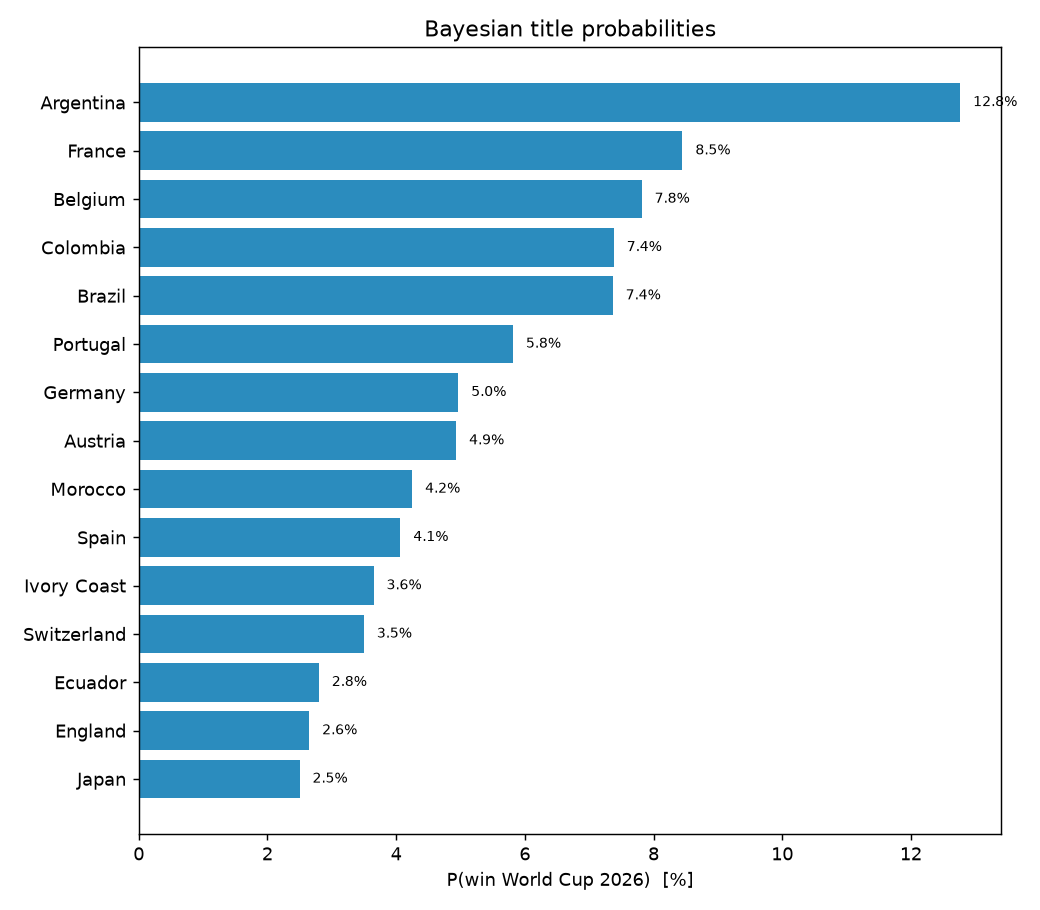
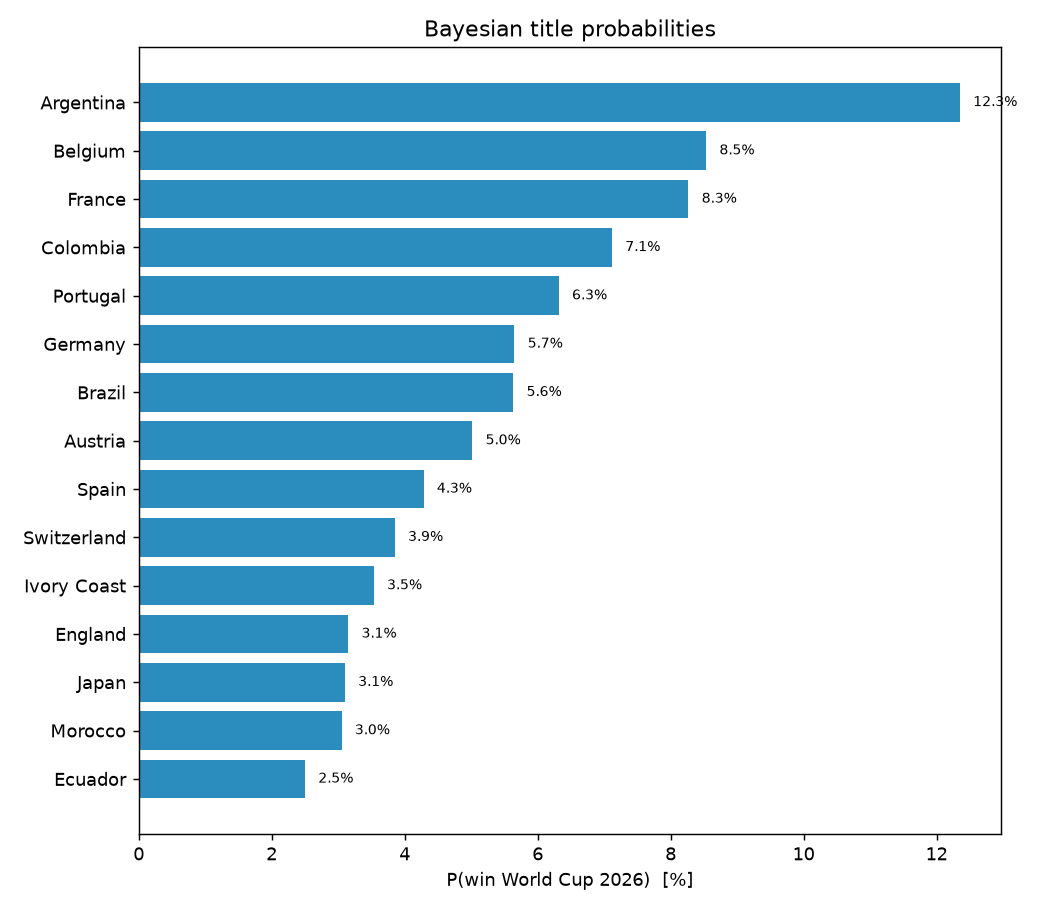
Add R32 opponent-odds script + link from Champion Tracker
- scripts/23_r32_odds.py (make r32-odds): goal forecast + win/draw/loss + Elo
  cross-check + squad style/form vs each candidate knockout opponent, at the
  Azteca (home edge); writes docs/R32_ODDS.md, sorted hardest-first
- Mexico R32 view: Ecuador toughest (34% win, 0-0 likely) despite being least
  likely; Scotland/Cape Verde ~48-50%
- Champion Tracker links to R32_ODDS.md

diff --git a/scripts/23_r32_odds.py b/scripts/23_r32_odds.py
@@ -1,0 +1,122 @@
+"""Stage 23: knockout-opponent odds for one team.
+
+For a set of candidate opponents, computes the goal forecast + win/draw/loss and
+an Elo cross-check, with each side's squad style and current form — Mexico's
+Round-of-32 view by default (at the Estadio Azteca). Writes docs/R32_ODDS.md and
+prints the table; refresh as the draw firms up.
+
+    python scripts/23_r32_odds.py
+    python scripts/23_r32_odds.py --team Mexico --opponents Scotland Ecuador "Cape Verde"
+    python scripts/23_r32_odds.py --neutral --stage "Round of 16"
+"""
+
+import argparse
+
+import arviz as az
+import pandas as pd
+
+from wc2026.config import ARTIFACTS, PROCESSED, ROOT, ensure_dirs
+from wc2026.data.scouting import MEXICO_SOCIAL
+from wc2026.data.sources import build_real_matches, wc2026_matches
+from wc2026.data.teams import HOSTS, TEAMS
+from wc2026.models.bayesian_score import FitResult, predict_match
+from wc2026.models.elo import win_probability
+from wc2026.models.momentum import combined_shifts
+
+TODAY = "2026-06-19"
+
+
+def _form(wc, team):
+    g = wc[(wc.home == team) | (wc.away == team)]
+    return "; ".join(f"{r.home} {int(r.home_score)}-{int(r.away_score)} {r.away}"
+                     for r in g.itertuples()) or "—"
+
+
+def main() -> None:
+    ap = argparse.ArgumentParser()
+    ap.add_argument("--team", default="Mexico")
+    ap.add_argument("--opponents", nargs="+",
+                    default=["Scotland", "Ecuador", "Cape Verde"])
+    ap.add_argument("--stage", default="Round of 32")
+    ap.add_argument("--venue", default="Estadio Azteca (home)")
+    ap.add_argument("--neutral", action="store_true",
+                    help="force a neutral venue (default: home if team is a host)")
+    args = ap.parse_args()
+
+    ensure_dirs()
+    teams = [t.name for t in TEAMS]
+    idata = az.from_netcdf(ARTIFACTS / "posterior_real.nc")
+    FitResult(idata=idata, teams=teams, team_to_idx={t: i for i, t in enumerate(teams)})
+    elo = pd.read_csv(PROCESSED / "elo_ratings.csv").set_index("team")
+    interp = pd.read_csv(PROCESSED / "team_interpretation.csv").set_index("team")
+    shifts = combined_shifts(build_real_matches(end=TODAY), TODAY,
+                             scouted={"Mexico": MEXICO_SOCIAL["net_mood"]})
+    wc = wc2026_matches()
+    wc = wc[wc.home_score.notna()]
+
+    neutral = args.neutral or (args.team not in HOSTS)
+    rows = []
+    for o in args.opponents:
+        if o not in teams:
+            print(f"  [skip] {o!r} not in the 48-team field")
+            continue
+        p = predict_match(idata, teams, args.team, o, neutral=neutral, shifts=shifts)
+        ew = win_probability(elo.loc[args.team, "elo"], elo.loc[o, "elo"],
+                             neutral=neutral)
+        pr = interp.loc[o] if o in interp.index else None
+        rows.append({
+            "opp": o, "xg": f"{p['exp_goals_home']:.2f}-{p['exp_goals_away']:.2f}",
+            "score": p["most_likely_score"], "win": p["p_home_win"],
+            "draw": p["p_draw"], "loss": p["p_away_win"], "over25": p["p_over_2_5"],
+            "elo_win": ew, "elo_rank": int(elo.loc[o, "rank"]),
+            "tier": pr["tier"] if pr is not None else "?",
+            "style": pr["style"] if pr is not None else "?",
+            "star": pr["star_player"] if pr is not None else "?",
+            "form": _form(wc, o),
+        })
+    rows.sort(key=lambda r: r["win"])   # hardest first
+
+    md = _render(args, rows, int(elo.loc[args.team, "rank"]))
+    out = ROOT / "docs" / "R32_ODDS.md"
+    out.write_text(md)
+
+    print(f"=== {args.team} — {args.stage} opponent odds ({args.venue}) ===\n")
+    print(f"{'opponent':<13}{'win':>6}{'draw':>6}{'loss':>6}{'xG':>11}  elo")
+    for r in rows:
+        print(f"{r['opp']:<13}{100*r['win']:>5.0f}%{100*r['draw']:>5.0f}%"
+              f"{100*r['loss']:>5.0f}%{r['xg']:>11}  {100*r['elo_win']:.0f}%")
+    print(f"\nsaved -> {out}")
+
+
+def _pct(x):
+    return f"{100*x:.0f}%"
+
+
+def _render(args, rows, team_elo_rank) -> str:
+    venue = "neutral" if (args.neutral or args.team not in HOSTS) else args.venue
+    L = [f"# {args.team} — {args.stage} Opponent Odds\n",
+         f"_Goal forecast + win/draw/loss vs each candidate opponent, at **{venue}**. "
+         "Model = Bayesian goals (with home edge + current form); Elo = recency "
+         "cross-check (win excl. draw). Sorted hardest-first. Compiled 2026-06-19._\n",
+         "| Opponent | Likely | **Win** | Draw | Loss | Over 2.5 | Elo win | Opp Elo rank |",
+         "|---|---|---|---|---|---|---|---|"]
+    for r in rows:
+        L.append(f"| {r['opp']} | {r['score']} | **{_pct(r['win'])}** | "
+                 f"{_pct(r['draw'])} | {_pct(r['loss'])} | {_pct(r['over25'])} | "
+                 f"{_pct(r['elo_win'])} | {r['elo_rank']} |")
+    if rows:
+        hardest = rows[0]
+        L.append(f"\n**Toughest draw: {hardest['opp']}** "
+                 f"({_pct(hardest['win'])} win) — lowest win probability of the set.\n")
+    L.append("## Opponent notes (style · form)\n")
+    for r in rows:
+        L.append(f"- **{r['opp']}** — {r['tier']}, {r['style']}; talisman "
+                 f"{r['star']}. Form: {r['form']}")
+    L.append("\n_Caveat: Bayesian (pooled, ~mid-table view of the favourite) and Elo "
+             "(recency, hot-form view) often disagree on the margin; they agree on "
+             "the ranking. Refresh with `make r32-odds` as the draw firms up._")
+    return "\n".join(L)
+
+
+if __name__ == "__main__":
+    main()

diff --git a/scripts/16_champion_tracker.py b/scripts/16_champion_tracker.py
@@ -140,6 +140,9 @@ def _render(st, nxt, sim, n_played) -> str:
         L.append(f"| {r.team} | {_pct(r.p_quarter)} | {_pct(r.p_semi)} | "
                  f"{_pct(r.p_final)} | **{_pct(r.p_champion)}** |")
 
+    L.append("\n_Mexico's Round-of-32 opponent odds (per candidate): "
+             "[R32_ODDS.md](R32_ODDS.md) — `make r32-odds`._\n")
+
     L.append("\n## Next games — predicted goals\n")
     L.append("| Date | Fixture | Pred goals (xG) | Likely | P(H/D/A) | Home form |")
     L.append("|---|---|---|---|---|---|")

diff --git a/docs/CHAMPION_TRACKER.md b/docs/CHAMPION_TRACKER.md
@@ -1,6 +1,6 @@
 # 🏆 World Cup 2026 — Champion Tracker
 
-_A living, state-aware forecast. Conditioned on the **32 matches played so far**: completed group games are held fixed; the rest of the tournament is simulated from a Bayesian goals model (squad-skill prior + current form + X/ESPN sentiment). Updated 2026-06-19._
+_A living, state-aware forecast. Conditioned on the **28 matches played so far**: completed group games are held fixed; the rest of the tournament is simulated from a Bayesian goals model (squad-skill prior + current form + X/ESPN sentiment). Updated 2026-06-19._
 
 ## How to read this
 
@@ -15,42 +15,45 @@ Both come from one model: goals are the primitive; the winner is a simulation ov
 
 | Team | Quarter | Semi | Final | **Champion** |
 |---|---|---|---|---|
-| Argentina | 50% | 29% | 18% | **13%** |
-| France | 44% | 23% | 13% | **8%** |
-| Belgium | 44% | 23% | 12% | **8%** |
-| Colombia | 42% | 22% | 12% | **7%** |
-| Brazil | 44% | 23% | 12% | **7%** |
-| Portugal | 36% | 19% | 10% | **6%** |
-| Germany | 40% | 21% | 10% | **5%** |
-| Austria | 37% | 20% | 10% | **5%** |
-| Morocco | 34% | 17% | 9% | **4%** |
-| Spain | 31% | 16% | 8% | **4%** |
+| Argentina | 50% | 29% | 18% | **12%** |
+| Belgium | 45% | 24% | 13% | **9%** |
+| France | 45% | 23% | 12% | **8%** |
+| Colombia | 41% | 22% | 12% | **7%** |
+| Portugal | 38% | 20% | 11% | **6%** |
+| Germany | 40% | 21% | 11% | **6%** |
+| Brazil | 39% | 20% | 10% | **6%** |
+| Austria | 37% | 18% | 10% | **5%** |
+| Spain | 33% | 18% | 9% | **4%** |
+| Switzerland | 31% | 17% | 9% | **4%** |
 | Ivory Coast | 31% | 16% | 8% | **4%** |
-| Switzerland | 32% | 17% | 8% | **4%** |
+| England | 29% | 15% | 7% | **3%** |
+
+_Mexico's Round-of-32 opponent odds (per candidate): [R32_ODDS.md](R32_ODDS.md) — `make r32-odds`._
+
 
 ## Next games — predicted goals
 
 | Date | Fixture | Pred goals (xG) | Likely | P(H/D/A) | Home form |
 |---|---|---|---|---|---|
 | 2026-06-20 | Netherlands v Sweden | 2.2-1.5 | 2-1 | 53%/20%/27% | steady |
-| 2026-06-20 | Tunisia v Japan | 0.6-1.4 | 0-1 | 16%/27%/56% | cold |
-| 2026-06-20 | Germany v Ivory Coast | 1.6-1.4 | 1-1 | 44%/24%/32% | red-hot |
-| 2026-06-20 | Ecuador v Curaçao | 2.1-0.5 | 2-0 | 74%/18%/8% | steady |
-| 2026-06-21 | Belgium v Iran | 2.3-0.7 | 2-0 | 72%/18%/10% | red-hot |
-| 2026-06-21 | New Zealand v Egypt | 0.6-1.4 | 0-1 | 17%/28%/55% | cold |
+| 2026-06-20 | Tunisia v Japan | 0.6-1.4 | 0-1 | 16%/28%/56% | cold |
+| 2026-06-20 | Germany v Ivory Coast | 1.6-1.4 | 1-1 | 44%/24%/33% | red-hot |
+| 2026-06-20 | Ecuador v Curaçao | 2.1-0.5 | 1-0 | 73%/18%/8% | steady |
+| 2026-06-21 | Belgium v Iran | 2.2-0.7 | 2-0 | 72%/18%/11% | red-hot |
+| 2026-06-21 | New Zealand v Egypt | 0.6-1.4 | 0-1 | 18%/28%/54% | cold |
 | 2026-06-21 | Spain v Saudi Arabia | 1.6-0.5 | 1-0 | 65%/24%/11% | steady |
-| 2026-06-21 | Uruguay v Cape Verde | 1.0-0.8 | 0-0 | 41%/33%/26% | steady |
-| 2026-06-22 | France v Iraq | 2.3-0.4 | 2-0 | 79%/15%/5% | rising |
-| 2026-06-22 | Norway v Senegal | 1.5-1.2 | 1-1 | 44%/25%/30% | rising |
+| 2026-06-21 | Uruguay v Cape Verde | 1.0-0.8 | 0-0 | 40%/33%/27% | steady |
+| 2026-06-22 | France v Iraq | 2.3-0.4 | 2-0 | 79%/16%/6% | rising |
+| 2026-06-22 | Norway v Senegal | 1.5-1.2 | 1-1 | 45%/25%/30% | rising |
 | 2026-06-22 | Argentina v Austria | 1.7-1.1 | 1-1 | 50%/24%/26% | red-hot |
 | 2026-06-22 | Jordan v Algeria | 0.7-1.8 | 0-1 | 14%/23%/63% | dipping |
 | 2026-06-23 | Portugal v Uzbekistan | 1.8-0.5 | 1-0 | 68%/22%/10% | rising |
 | 2026-06-23 | Colombia v Congo DR | 1.6-0.8 | 1-0 | 57%/25%/18% | rising |
 | 2026-06-23 | England v Ghana | 1.9-0.7 | 1-0 | 66%/21%/13% | rising |
 | 2026-06-23 | Panama v Croatia | 0.8-1.6 | 0-1 | 19%/25%/56% | dipping |
-| 2026-06-24 | Morocco v Haiti | 1.8-0.6 | 1-0 | 66%/22%/12% | rising |
+| 2026-06-24 | Morocco v Haiti | 1.8-0.7 | 1-0 | 62%/23%/15% | rising |
 | 2026-06-24 | Bosnia-Herzegovina v Qatar | 1.7-1.1 | 1-0 | 52%/24%/24% | dipping |
-| 2026-06-24 | Scotland v Brazil | 0.9-2.0 | 0-1 | 16%/20%/64% | steady |
+| 2026-06-24 | Scotland v Brazil | 1.0-2.0 | 0-1 | 19%/22%/59% | rising |
 | 2026-06-24 | South Africa v South Korea | 0.9-0.8 | 0-0 | 37%/33%/30% | dipping |
 | 2026-06-24 | Mexico v Czechia | 1.9-0.8 | 1-0 | 62%/22%/16% | rising |
 | 2026-06-24 | Canada v Switzerland | 1.4-1.3 | 1-1 | 38%/26%/36% | red-hot |
@@ -59,26 +62,25 @@ Both come from one model: goals are the primitive; the winner is a simulation ov
 
 | Team | P | Pts | GD |
 |---|---|---|---|
-| United States | 2 | 6 | +5 |
 | Mexico | 2 | 6 | +3 |
 | Canada | 2 | 4 | +6 |
 | Switzerland | 2 | 4 | +3 |
-| Brazil | 2 | 4 | +3 |
-| Morocco | 2 | 4 | +1 |
 | Germany | 1 | 3 | +6 |
 | Sweden | 1 | 3 | +4 |
+| United States | 1 | 3 | +3 |
 | Norway | 1 | 3 | +3 |
 | Argentina | 1 | 3 | +3 |
+| Australia | 1 | 3 | +2 |
 | France | 1 | 3 | +2 |
 | Austria | 1 | 3 | +2 |
 | Colombia | 1 | 3 | +2 |
 | England | 1 | 3 | +2 |
+| Scotland | 1 | 3 | +1 |
 | Ivory Coast | 1 | 3 | +1 |
 | Ghana | 1 | 3 | +1 |
 | South Korea | 2 | 3 | +0 |
-| Scotland | 2 | 3 | +0 |
-| Australia | 2 | 3 | +0 |
-| Paraguay | 2 | 3 | -2 |
+| Brazil | 1 | 1 | +0 |
+| Morocco | 1 | 1 | +0 |
 | Netherlands | 1 | 1 | +0 |
 | Japan | 1 | 1 | +0 |
 | Belgium | 1 | 1 | +0 |
@@ -95,16 +97,17 @@ Both come from one model: goals are the primitive; the winner is a simulation ov
 | South Africa | 2 | 1 | -2 |
 | Bosnia-Herzegovina | 2 | 1 | -3 |
 | Qatar | 2 | 1 | -6 |
+| Haiti | 1 | 0 | -1 |
 | Ecuador | 1 | 0 | -1 |
 | Panama | 1 | 0 | -1 |
+| Türkiye | 1 | 0 | -2 |
 | Senegal | 1 | 0 | -2 |
 | Jordan | 1 | 0 | -2 |
 | Uzbekistan | 1 | 0 | -2 |
 | Croatia | 1 | 0 | -2 |
-| Türkiye | 2 | 0 | -3 |
+| Paraguay | 1 | 0 | -3 |
 | Iraq | 1 | 0 | -3 |
 | Algeria | 1 | 0 | -3 |
-| Haiti | 2 | 0 | -4 |
 | Tunisia | 1 | 0 | -4 |
 | Curaçao | 1 | 0 | -6 |
 

diff --git a/docs/R32_ODDS.md b/docs/R32_ODDS.md
@@ -1,0 +1,19 @@
+# Mexico — Round of 32 Opponent Odds
+
+_Goal forecast + win/draw/loss vs each candidate opponent, at **Estadio Azteca (home)**. Model = Bayesian goals (with home edge + current form); Elo = recency cross-check (win excl. draw). Sorted hardest-first. Compiled 2026-06-19._
+
+| Opponent | Likely | **Win** | Draw | Loss | Over 2.5 | Elo win | Opp Elo rank |
+|---|---|---|---|---|---|---|---|
+| Ecuador | 0-0 | **34%** | 36% | 30% | 21% | 66% | 14 |
+| Cape Verde | 1-0 | **48%** | 28% | 23% | 36% | 77% | 30 |
+| Scotland | 1-0 | **50%** | 26% | 24% | 42% | 77% | 29 |
+
+**Toughest draw: Ecuador** (34% win) — lowest win probability of the set.
+
+## Opponent notes (style · form)
+
+- **Ecuador** — Developing team, attack-leaning; talisman P. Estupiñán. Form: Ivory Coast 1-0 Ecuador
+- **Cape Verde** — Developing team, attack-leaning; talisman Jovane Cabral. Form: Spain 0-0 Cape Verde
+- **Scotland** — Solid outfit, well-balanced; talisman A. Robertson. Form: Haiti 0-1 Scotland
+
+_Caveat: Bayesian (pooled, ~mid-table view of the favourite) and Elo (recency, hot-form view) often disagree on the margin; they agree on the ranking. Refresh with `make r32-odds` as the draw firms up._